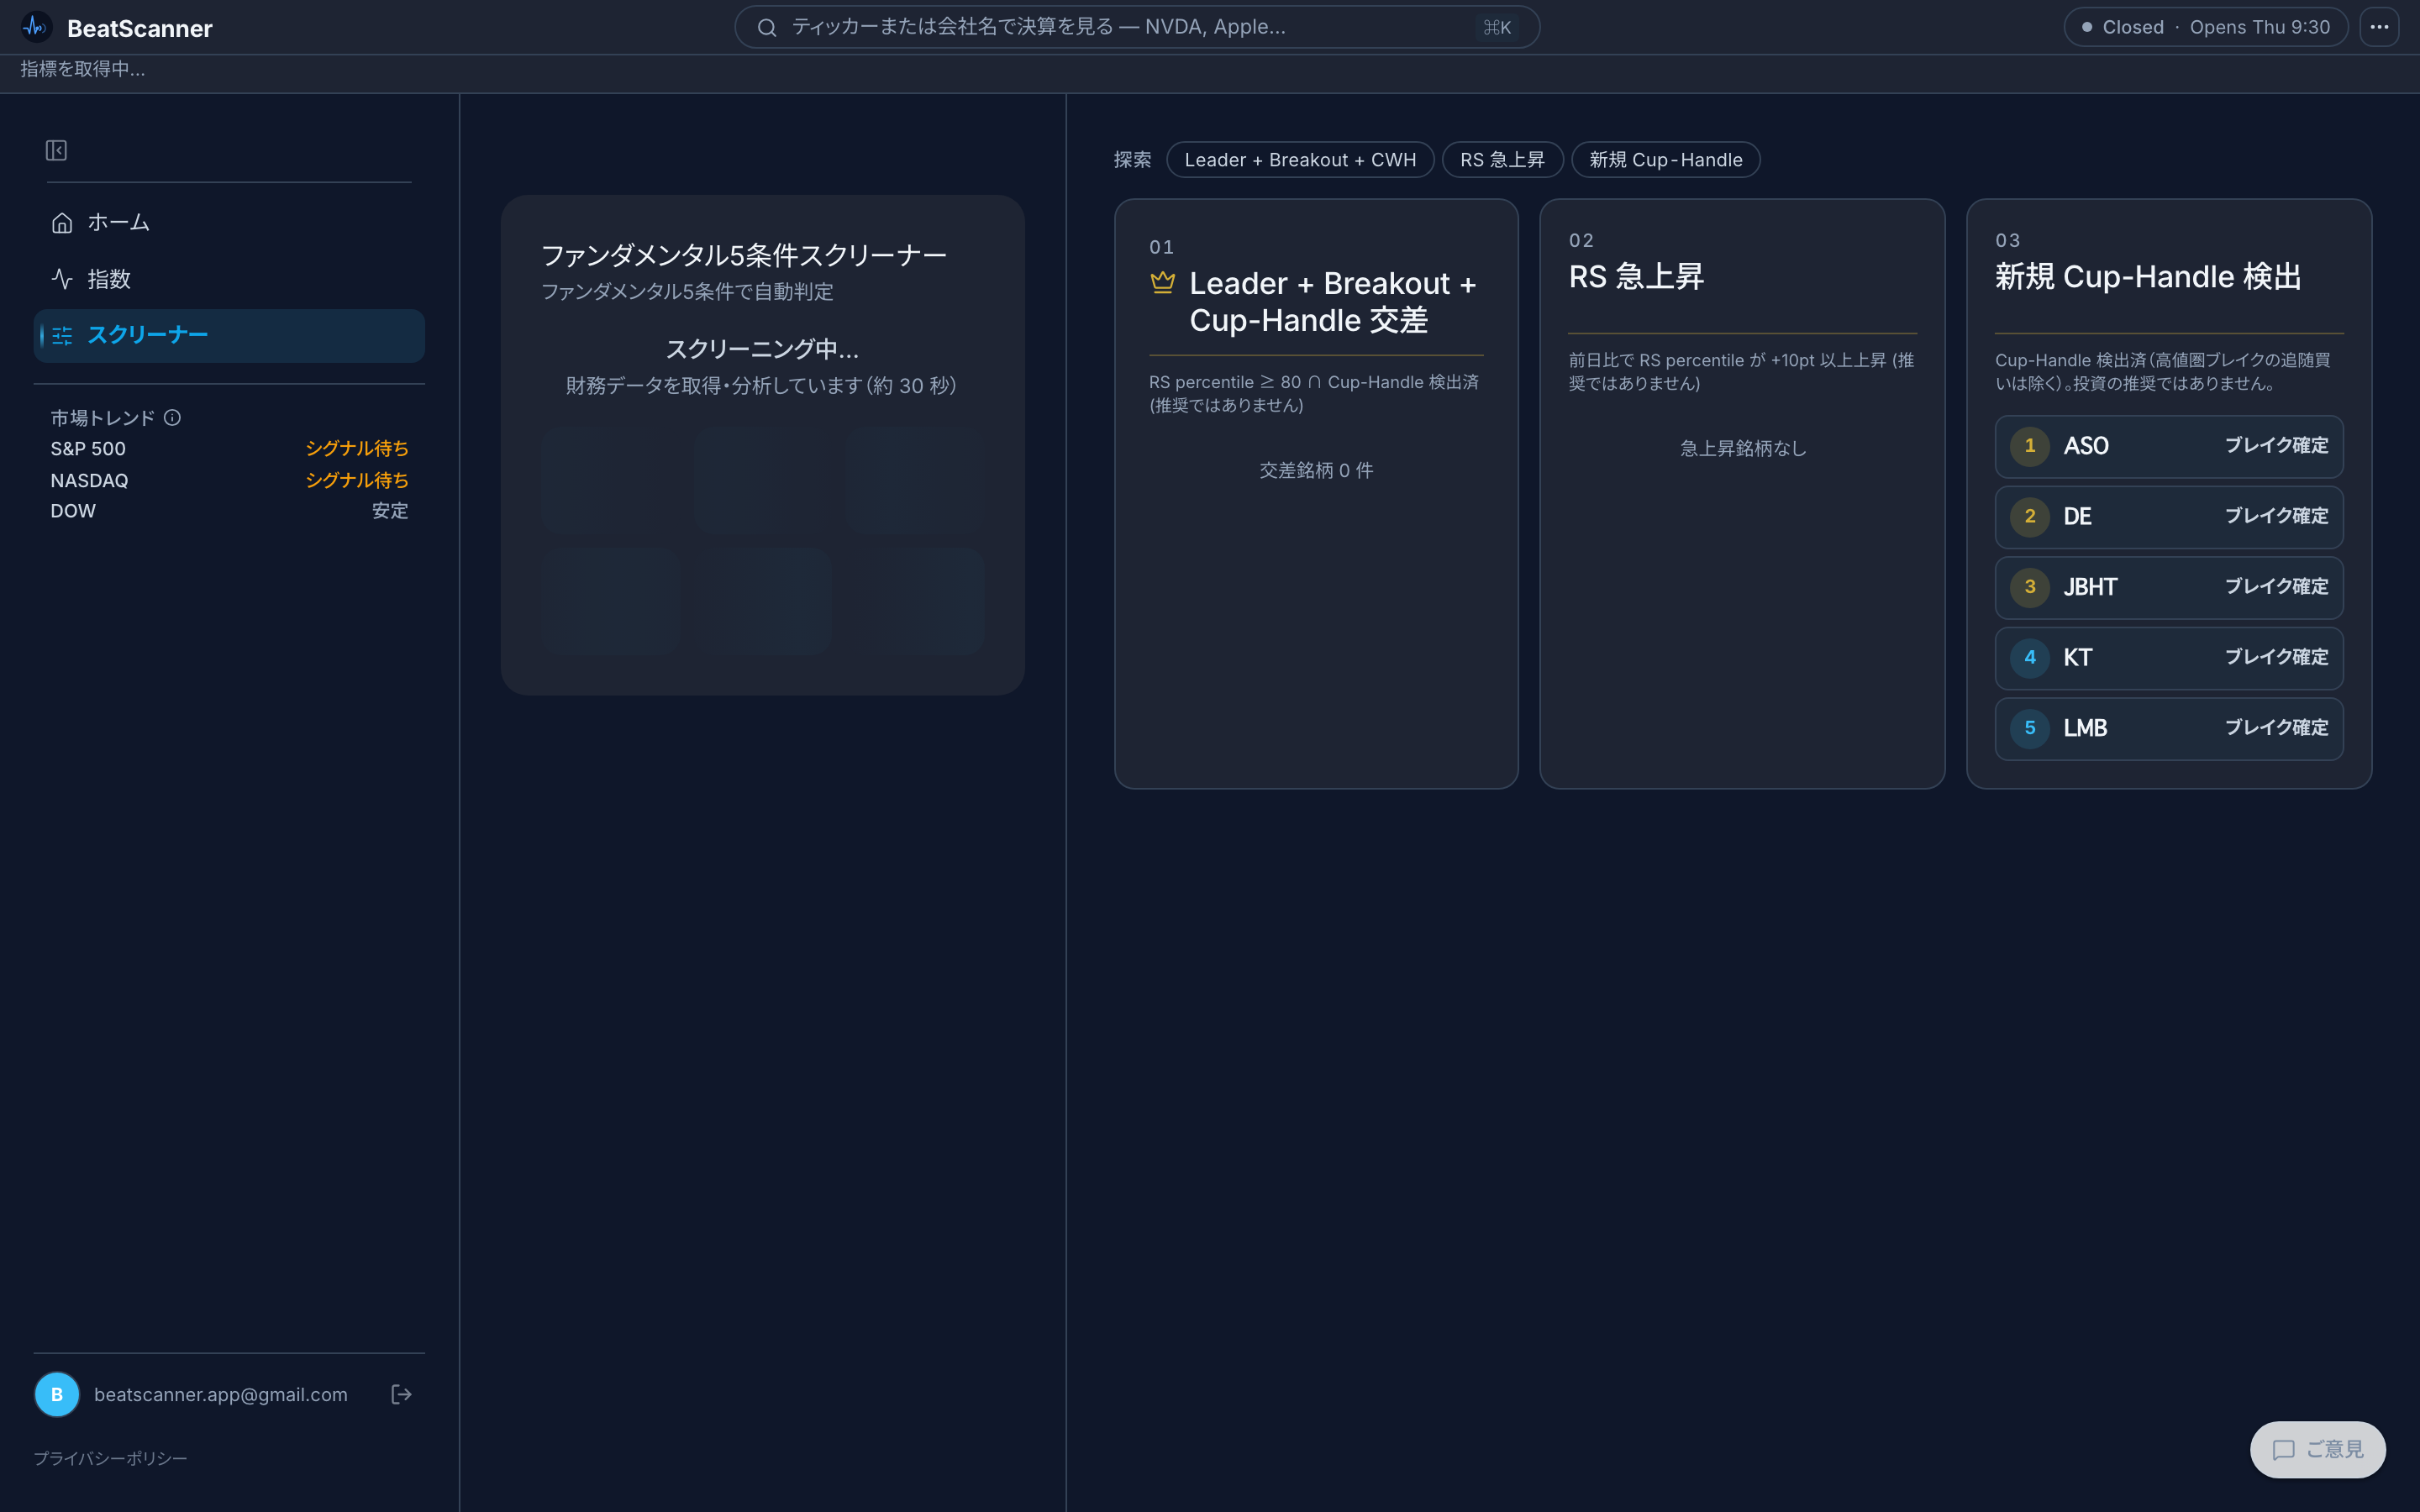
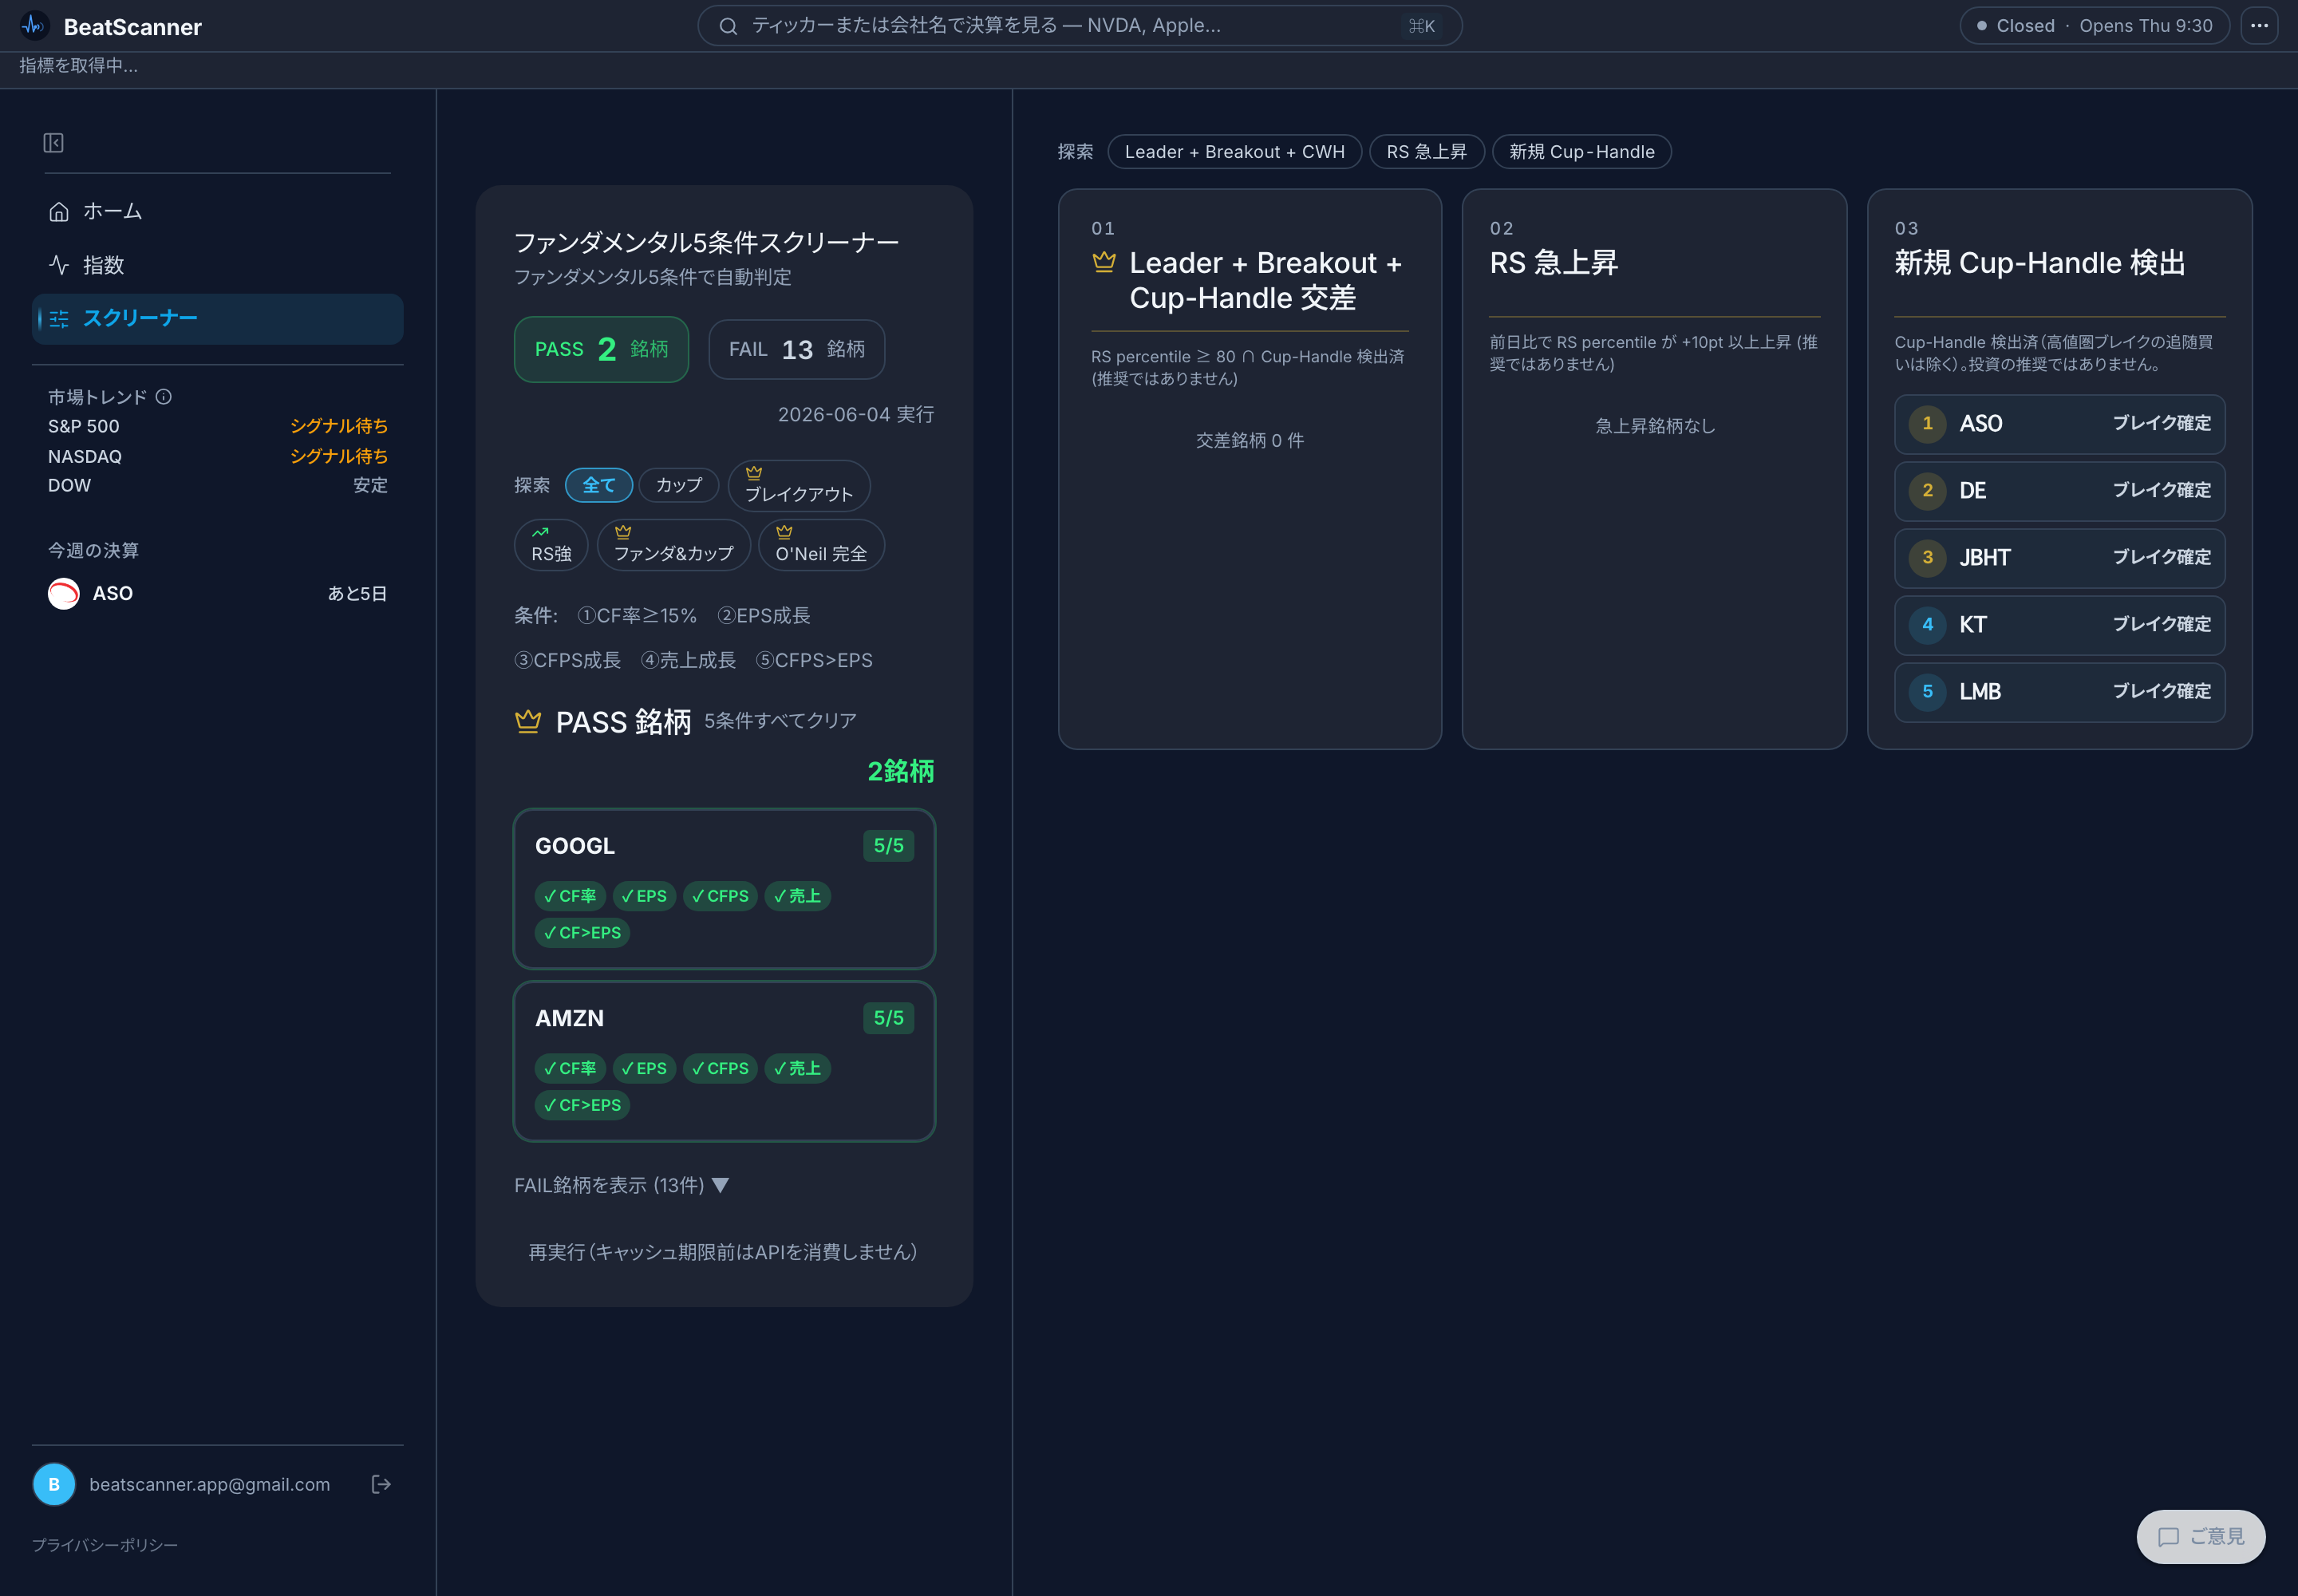
chore(dogfood): ギャラリーを修正後の画像に更新 (指摘3件 反映確認)
after/pass/watch-3 を修正後 (index-CS8UxXzI.js) の再撮影に差し替え。
HTML に「修正反映済」 banner + 各 section caption 更新。

diff --git a/frontend/public/dogfood/index.html b/frontend/public/dogfood/index.html
@@ -41,7 +41,11 @@
 <body>
 <div class="wrap">
   <h1>スクリーナー刷新 dogfood</h1>
-  <p class="sub">2026-06-04 / 本番 index-Dl1UqBKm.js / スマホ確認用（このページは noindex・あとで削除します）</p>
+  <p class="sub">2026-06-04 / 本番 index-CS8UxXzI.js / スマホ確認用（このページは noindex・あとで削除します）</p>
+  <div class="delta" style="border-color: color-mix(in srgb,#34ef81 30%,transparent)">
+    ✅ <b>dogfood 指摘3件 修正反映済</b>（下の画像は修正後です）<br>
+    ① 01交差の仕切り線を3列で揃え ② ウォッチ追加済の✓を撤去（★追加済のみ）③ PASS緑バッジとティッカーの重なり解消（カードを1列化）
+  </div>
 
   <section>
     <h2><span class="eyebrow">01</span><br>Before → After（のっぺり → お宝発見の旅）</h2>
@@ -66,13 +70,13 @@
     <img src="watch-1.png" alt="未追加">
     <span class="tag gold">② hover（★金点灯 + 浮上 + border金）</span>
     <img src="watch-2.png" alt="hover">
-    <span class="tag gold">③ 追加済（★金点灯 + 「追加済」 + ✓）</span>
+    <span class="tag gold">③ 追加済（★金点灯 + 「追加済」のみ・✓撤去）</span>
     <img src="watch-3.png" alt="追加済">
   </section>
 
   <section>
     <h2><span class="eyebrow">03</span><br>Pane2 PASS銘柄 章扉化</h2>
-    <p class="cap">左の「ファンダ5条件スクリーナー」の PASS 銘柄を「ご褒美」化。👑Crown + 18px見出し + 件数stat「2銘柄」。PASS=緑のリングは維持、FAIL は折りたたみ。</p>
+    <p class="cap">左の「ファンダ5条件スクリーナー」の PASS 銘柄を「ご褒美」化。👑Crown + 18px見出し + 件数stat「2銘柄」。<b>カードを1列化して「5/5」緑バッジとティッカーの重なりを解消</b>。PASS=緑リング維持、FAIL は折りたたみ。</p>
     <img src="pass.png" alt="PASS章扉">
   </section>
 